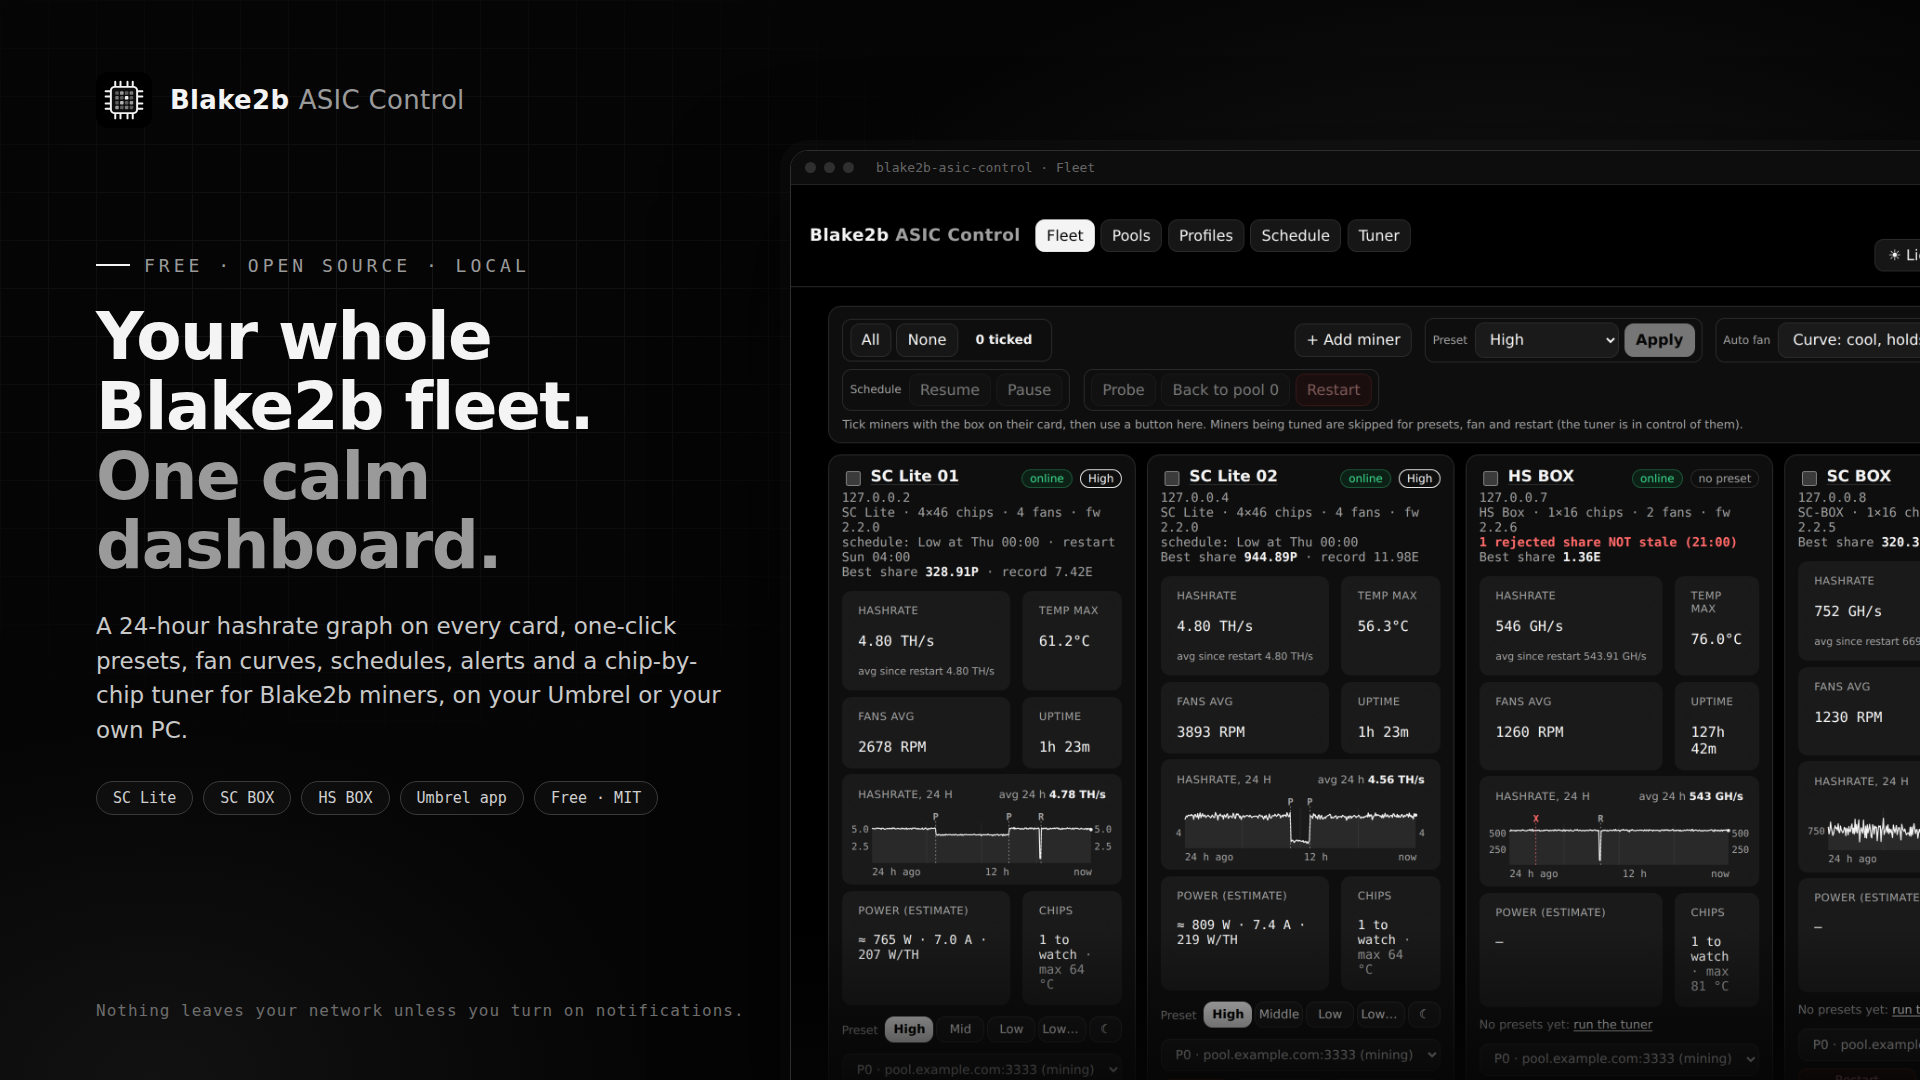
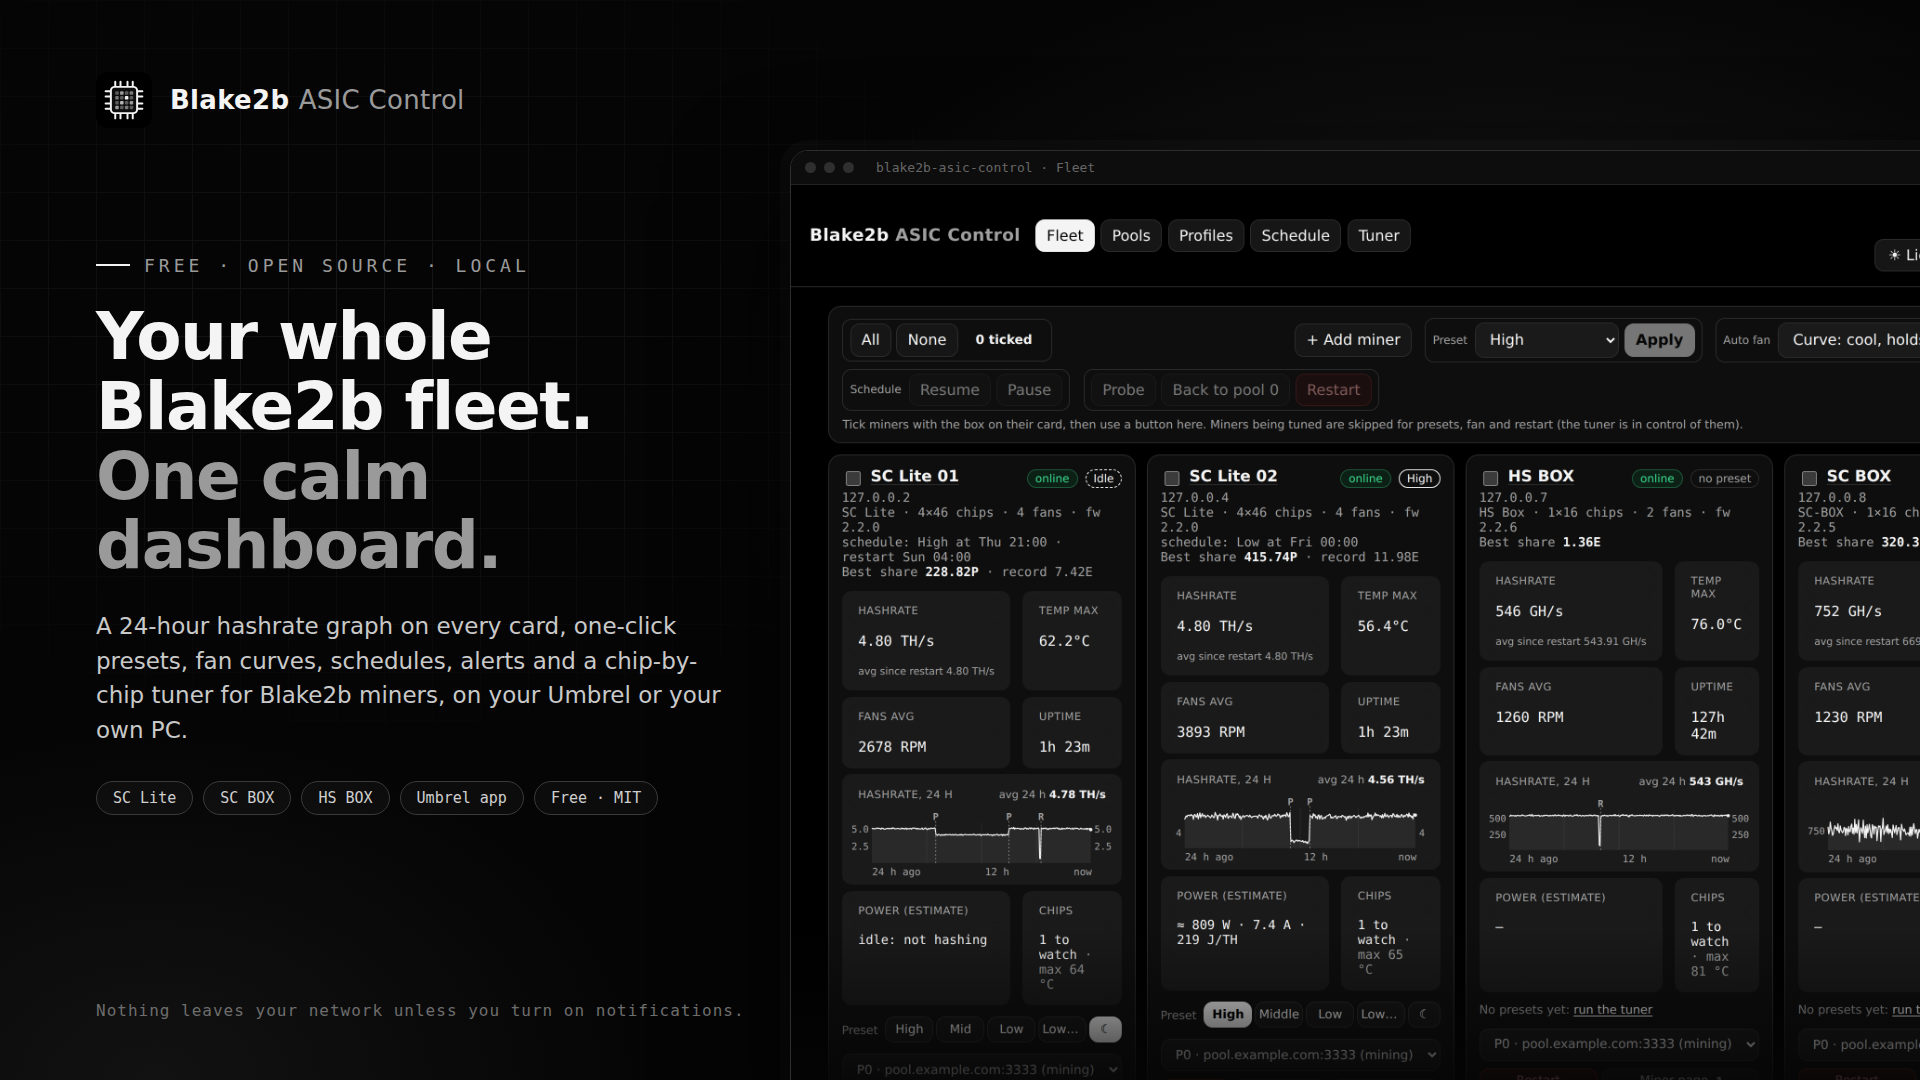
v1.15.9: efficiency in J/TH, new gallery images

diff --git a/app/addon.js b/app/addon.js
@@ -376,7 +376,7 @@
   window.sclCardInfo = (m) => {
     if (String(m.id).startsWith("demo-")) return "";
     const h = HW[m.id] || {}, pl = planOf(m), e = h.active === "idle" ? null : estW(h.power_model, pl.mhz, pl.pv), hl = h.health;
-    const pw = h.active === "idle" ? "idle: not hashing" : e ? `≈ ${e.w} W · ${e.amps} A` + (e.wth ? ` · ${e.wth} W/TH` : "") : "—";
+    const pw = h.active === "idle" ? "idle: not hashing" : e ? `≈ ${e.w} W · ${e.amps} A` + (e.wth ? ` · ${e.wth} J/TH` : "") : "—";
     const tipP = e ? `Estimate for ${pl.mhz} MHz${e.eff !== pl.mhz ? ` (runs ${e.eff})` : ""} · PV ${pl.pv}, at ${e.mains} V${h.power_model && h.power_model.cal_info ? " · calibrated to your wall reading" : " · not calibrated (Miner page)"}` : "Needs the miner's rated power and stock setting (probe it)";
     const ch = !hl ? `<span class="muted">checking…</span>` : hl.weak.length ? `<span style="color:var(--bad);font-weight:600">${hl.weak.length} weak</span> <span class="muted">${esc(hl.weak.slice(0, 2).join(", "))}</span>`
       : hl.watch.length ? `${hl.watch.length} to watch` : "all healthy";
@@ -671,7 +671,7 @@
     }
     const m = (S().miners || []).find(x => x.id === id) || {}, pl = planOf(m), e = h.active === "idle" ? null : estW(h.power_model, pl.mhz, pl.pv);
     if (h.active === "idle") bits.push(`<span title="The firmware's own Idle mode: the hash boards are off. Any other preset wakes it.">Idle: <b>not hashing</b></span>`);
-    if (e) bits.push(`<span title="PV is the voltage the boards really get; power follows clock × PV²">Power <b>≈ ${e.w} W</b> · ${e.amps} A at ${e.mains} V${e.wth ? ` · ${e.wth} W/TH` : ""}${e.eff !== pl.mhz ? ` · runs ${e.eff} MHz` : ""}
+    if (e) bits.push(`<span title="PV is the voltage the boards really get; power follows clock × PV²">Power <b>≈ ${e.w} W</b> · ${e.amps} A at ${e.mains} V${e.wth ? ` · ${e.wth} J/TH` : ""}${e.eff !== pl.mhz ? ` · runs ${e.eff} MHz` : ""}
       <a href="#" class="scl-cal">${h.power_model && h.power_model.cal_info ? "calibrated" : "calibrate"}</a></span>`);
     bits.push(`<span>Preset <b>${esc(h.preset || "none")}</b></span>`);
     if (bellHtml(id)) bits.push(`<span>${bellHtml(id)}</span>`);

diff --git a/app/profiles.html b/app/profiles.html
@@ -674,7 +674,7 @@ function renderPresets() {
       <h3>${esc(p.label || k)} ${active ? '<span class="pill ok">on the miner</span>' : ""}</h3>
       <div class="clock">${p.mhz} MHz</div>
       <div class="sub">${p.mv} mV · PV ${p.pv}${Math.floor(p.mhz / 12.5) * 12.5 !== p.mhz ? ` · runs ${Math.floor(p.mhz / 12.5) * 12.5} MHz` : ""}</div>
-      ${p.power ? `<div class="meta" title="Estimate: chips follow clock × PV² (PV is the real board voltage). Calibrate it on the Miner page.">≈ ${p.power.w} W · ${p.power.amps} A${p.power.w_per_th ? ` · ${p.power.w_per_th} W/TH` : ""}</div>` : ""}
+      ${p.power ? `<div class="meta" title="Estimate: chips follow clock × PV² (PV is the real board voltage). Calibrate it on the Miner page.">≈ ${p.power.w} W · ${p.power.amps} A${p.power.w_per_th ? ` · ${p.power.w_per_th} J/TH` : ""}</div>` : ""}
       <div class="meta">${!p.fan_profile ? "Fans: left as they are" : S.profiles[p.fan_profile] && S.profiles[p.fan_profile].tuned
         ? `Fans: its own tuned curve${p.target_c != null ? ` (holds about ${p.target_c} °C)` : ""}` : "Fans: " + esc(profLabel(p.fan_profile))}</div>
       ${p.fan_profile ? spark(p.fan_profile) : ""}

diff --git a/app/tuner.html b/app/tuner.html
@@ -453,7 +453,7 @@
       <div class="table-wrap">
         <table>
           <thead><tr><th>Time</th><th class="num">MHz</th><th class="num">mV</th><th class="num">PV</th>
-            <th>Result</th><th class="num">TH/s</th><th class="num" title="Estimated wall power (calibrate it on the Miner page)">≈ W</th><th class="num" title="Watts per TH/s: estimated power ÷ the hashrate measured in this test. Lower is more efficient.">W/TH</th><th class="num">Max °C</th><th>Reason</th></tr></thead>
+            <th>Result</th><th class="num">TH/s</th><th class="num" title="Estimated wall power (calibrate it on the Miner page)">≈ W</th><th class="num" title="Joules per terahash: estimated power ÷ the hashrate measured in this test (the same number as watts per TH/s). Lower is more efficient.">J/TH</th><th class="num">Max °C</th><th>Reason</th></tr></thead>
           <tbody id="resBody"><tr><td colspan="10" class="muted">None yet.</td></tr></tbody>
         </table>
       </div>

diff --git a/CHANGELOG.md b/CHANGELOG.md
@@ -8,6 +8,12 @@ and `blake2b-asic-control/umbrel-app.yml` (version, the `?v=` on the image links
 add it here, commit, push, then push a `v<version>` tag: GitHub Actions builds and publishes the image
 (see the README).
 
+## 1.15.9 (2026-10-08)
+
+- **Efficiency in J/TH** instead of W/TH (the same number: watts per TH/s is joules per TH): Fleet card,
+  Miner page power line, preset cards on Profiles, and the tuner's Finished tests table. The API field names
+  (`w_per_th`) are unchanged. Gallery images re-captured.
+
 ## 1.15.8 (2026-10-08)
 
 - **Widgets redesigned** (`widget_server.py`), checked at Umbrel's phone size (160 x 110) and desktop size
